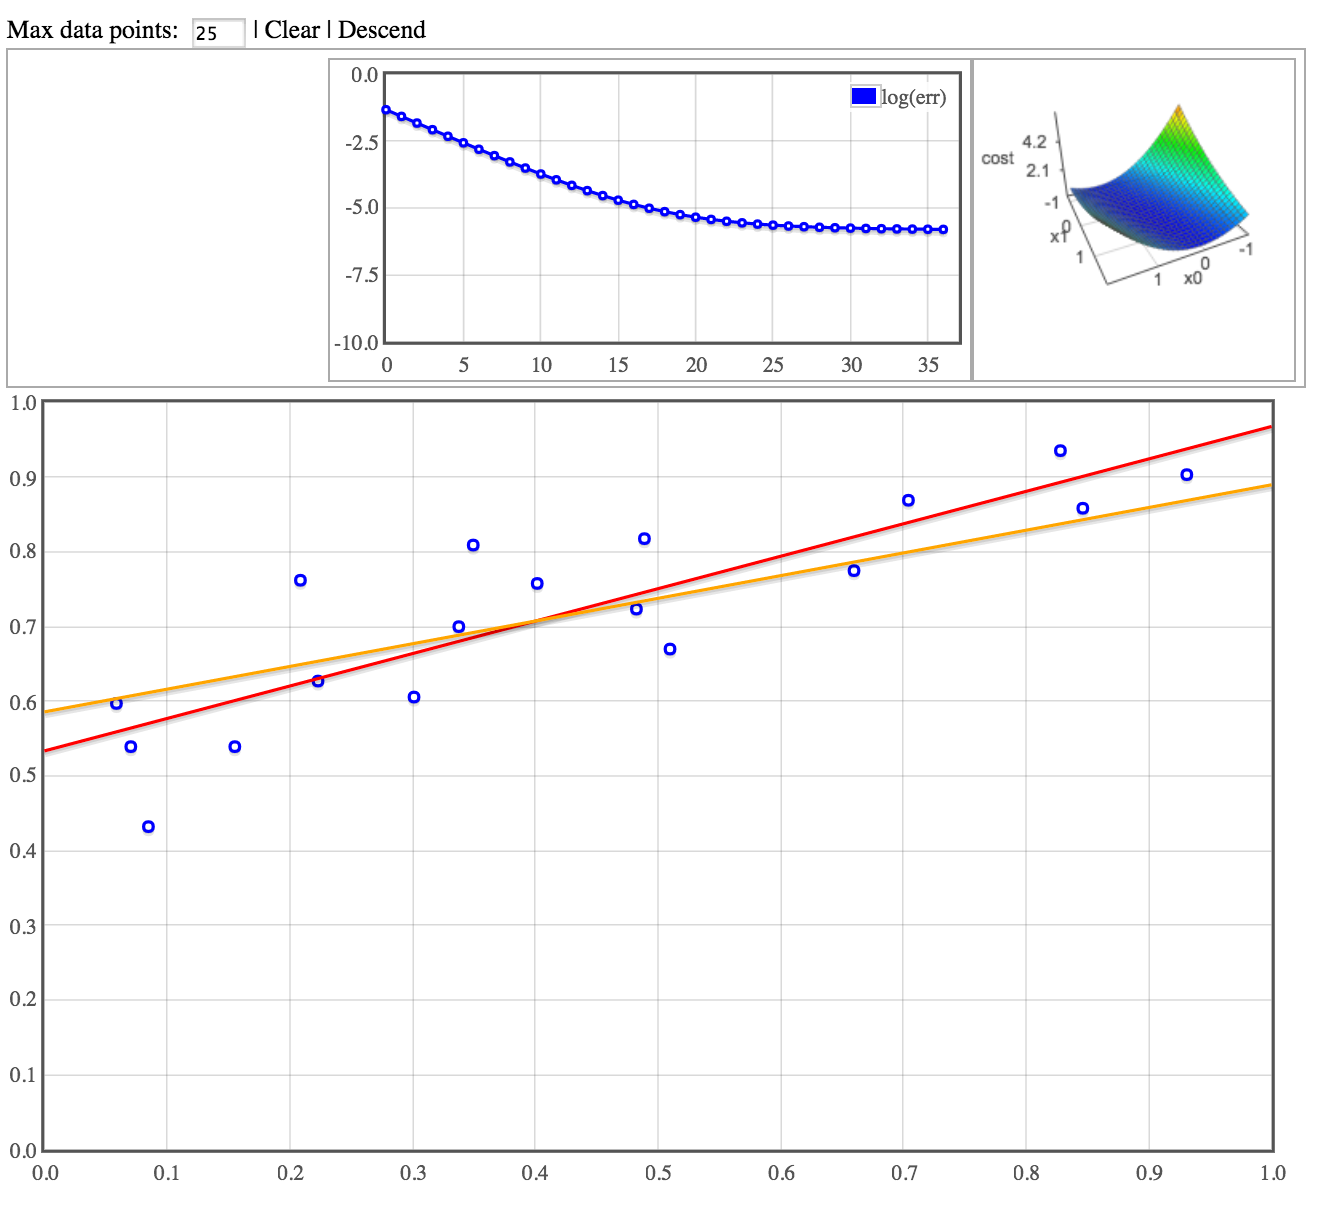
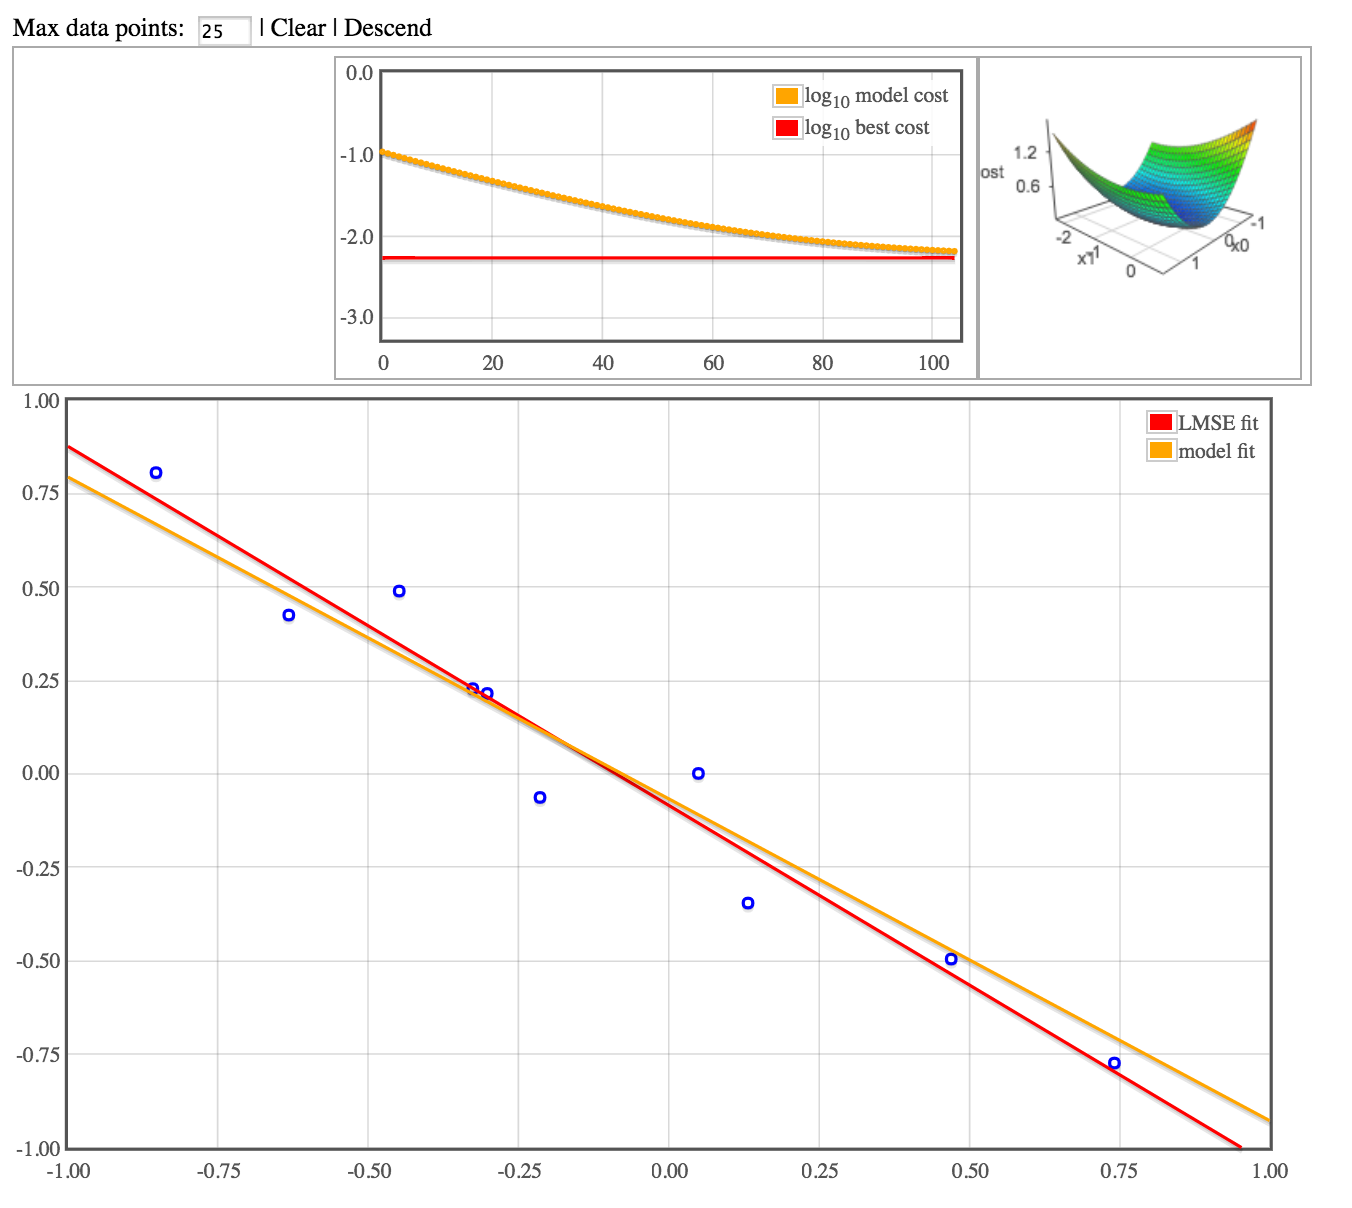
Add optimal cost trace to costLog

diff --git a/lib/graphs/costLog.js b/lib/graphs/costLog.js
@@ -1,35 +1,59 @@
 function costLog(div, parent) {
 	var div, parent;
-	var data;
+	var costLog;
+	var optimalLog = [];
+	var floor = 0;
+	var iteration = 0;
 
 	function update() {
-		getData();
+		if (parent.getDescent().getIteration() <= iteration) { return; }
+		var data = xyHelper.trainingData(parent.getXYData());
+		var features = math.concat(math.ones(data.features.size()[0], 1), data.features, 1);
+		var optimalCost = parent.getDescent().costFunction(parent.getLlmseFit(), features, data.outcomes);
+		var optCost = optimalCost[0] > 1e-20 ? math.log10(optimalCost[0]) : null;
 
-		var series = [{
-			data: data,
-			points: {show: true, radius: 1},
-			lines: {show: true},
-			color: "blue",
-			label: "log<sub>10</sub> cost"
-		}];
+		if (data.length > 0) { floor = math.min(floor, data[data.length][1]); }
+		if (optCost) { floor = math.min(floor, optCost); }
+
+		optimalLog.push([optimalLog.length, optCost]);
+
+		getCostLog();
+
+		var series = [
+			{
+				data: costLog,
+				points: {show: true, radius: 1},
+				lines: {show: true},
+				color: "orange",
+				label: "log<sub>10</sub> model cost"
+			},
+			{
+				data: optimalLog,
+				lines: {show: true},
+				color: "red",
+				label: "log<sub>10</sub> best cost"
+			},
+
+		];
 
 		var options = {
 			grid: {clickable: true},
 			xaxis: {min: 0, max: getXMax()},
-			yaxis: {min: -10, max: 0}
+			yaxis: {min: floor - 1, max: 0},
+			legend: {position: "ne"}
 		};
 
 		return $.plot(div, series, options);
 	}
 
-	function getData() {
+	function getCostLog() {
 		var yy = parent.getDescent().getCostLog().map(function(x) {
-			return math.log(x);
+			return math.log10(x);
 		});
-		data = yy.map(function(y, ii) {
+		costLog = yy.map(function(y, ii) {
 			return [ii, y];
 		});
-		return data;
+		return costLog;
 	}
 
 	function getXMax() {

diff --git a/data_graph.js b/data_graph.js
@@ -9,17 +9,10 @@ dataGraph = function(container) {
 	var divs;
 	var descent = gradientDescent(1);
 
-	function getDiv(name) {
-		return $("#" + name)
-	}
-
-	function getDescent() {
-		return descent;
-	}
-
-	function getXYData() {
-		return xyData;
-	}
+	function getDiv(name) { return $("#" + name); }
+	function getDescent() { return descent; }
+	function getXYData() { return xyData; }
+	function getLlmseFit() { return llmseFit; }
 
 	function initialize(container) {
 		divs = {
@@ -148,6 +141,7 @@ dataGraph = function(container) {
 		linkHUD: linkHUD,
 		getDescent: getDescent,
 		getXYData: getXYData,
+		getLlmseFit: getLlmseFit,
 		pushData: pushData,
 		toggleDescent: toggleDescent,
 		updateData: updateData,
